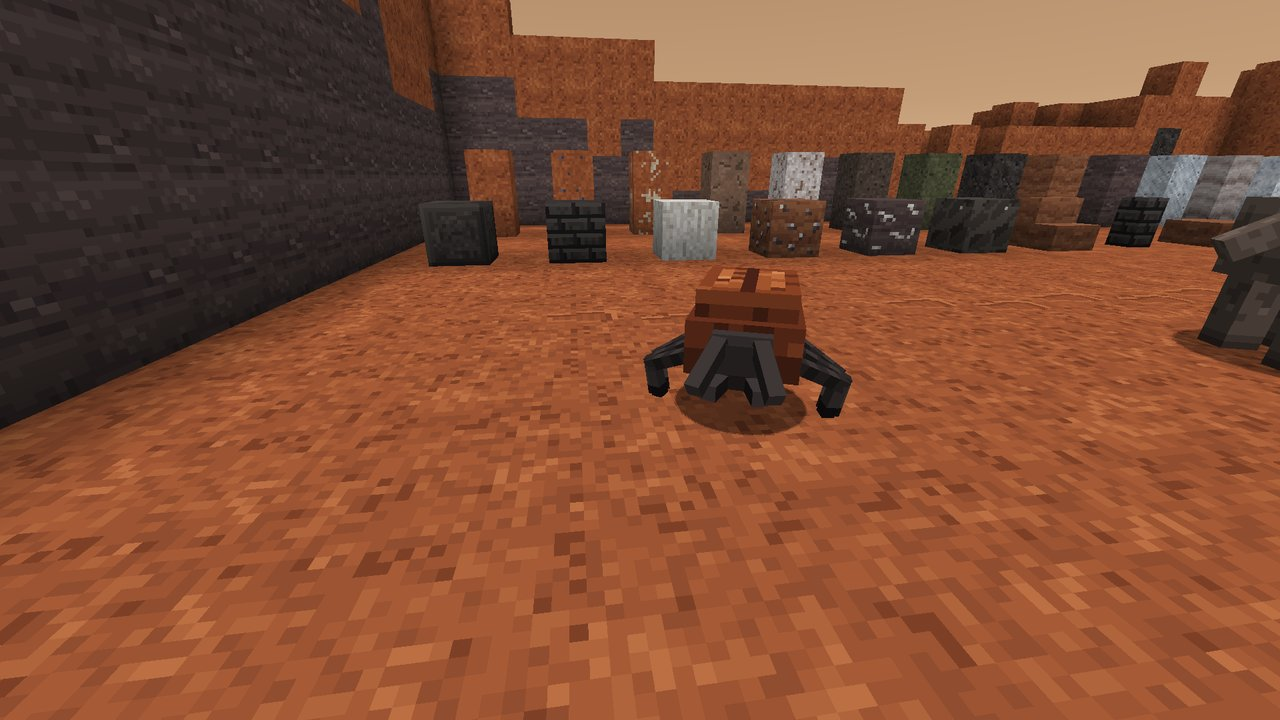
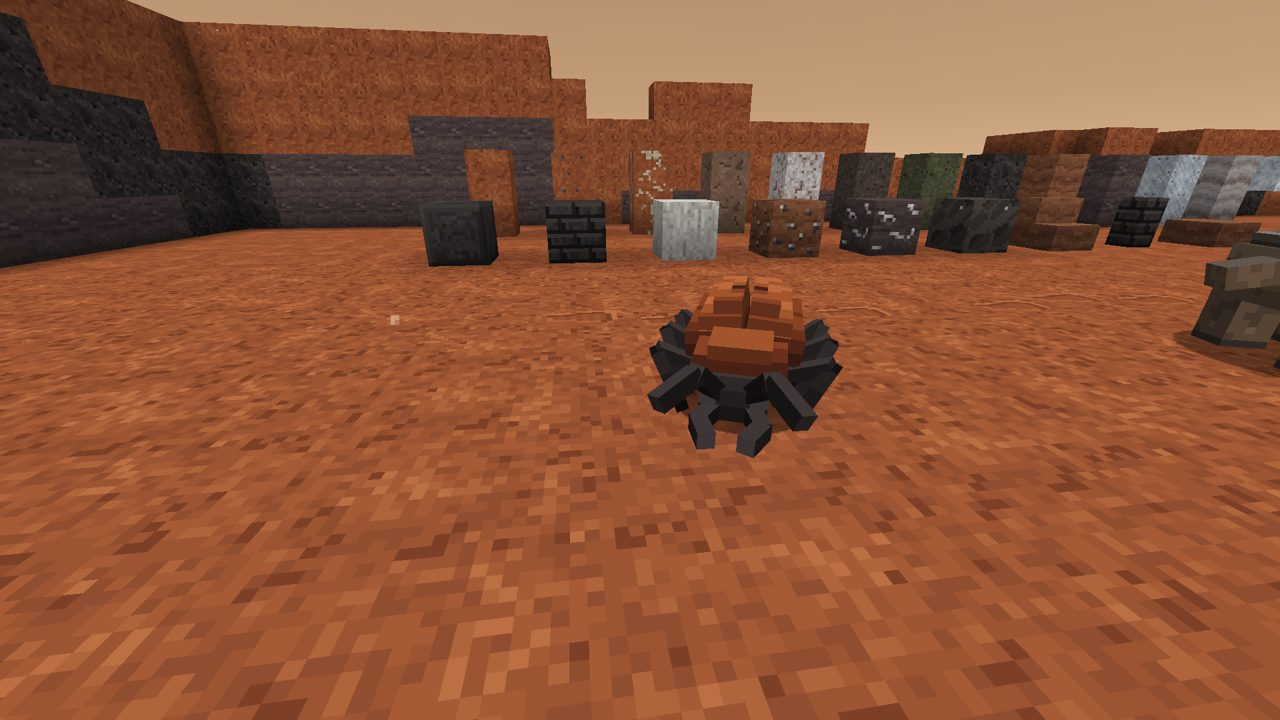
Rust Beetle: stepped domed wing cases, curved mandibles, jointed legs
Two wing cases meet along a dark seam and rise in three tiers to a narrow crown, pitted with rust and a broken metallic sheen; a lower thorax shield with its own crest; curved two-part mandibles and elbowed antennae on a small head; six legs bent high at the knee in a tripod gait. The Mars showcase stage is cleared wider to the west as well.

diff --git a/src/main/java/com/pizzaparker07/spacebreaker/client/mars/RustBeetleModel.java b/src/main/java/com/pizzaparker07/spacebreaker/client/mars/RustBeetleModel.java
@@ -12,9 +12,14 @@ import net.minecraft.client.model.geom.builders.MeshDefinition;
 import net.minecraft.client.model.geom.builders.PartDefinition;
 import net.minecraft.util.Mth;
 
-/** Rust Beetle: domed wing cases over a squat body, a small head with mandibles, six splayed legs. UVs: mars_creatures.py. */
+/**
+ * Rust Beetle: two domed wing cases (each stepping up in three tiers from a broad lower shell to a narrow crown, a dark seam between them) over a
+ * squat chitin body, a lower thorax shield, a small head with curved two-part mandibles and elbowed antennae, six legs
+ * bent high at the knee. UVs: mars_creatures.py.
+ */
 public class RustBeetleModel extends HierarchicalModel<RustBeetle> {
     public static final ModelLayerLocation LAYER = new ModelLayerLocation(Spacebreaker.id("rust_beetle"), "main");
+    private static final float[] LEG_Z = {-3F, 0F, 3F};
     private final ModelPart root;
     private final ModelPart head;
     private final ModelPart jawL;
@@ -34,28 +39,48 @@ public class RustBeetleModel extends HierarchicalModel<RustBeetle> {
     public static LayerDefinition createLayer() {
         MeshDefinition mesh = new MeshDefinition();
         PartDefinition root = mesh.getRoot();
-        PartDefinition body = root.addOrReplaceChild("body", CubeListBuilder.create().texOffs(0, 0).addBox(-4F, -4F, -5F, 8F, 4F, 10F),
-                PartPose.offset(0F, 20F, 0.5F));
-        body.addOrReplaceChild("shell", CubeListBuilder.create().texOffs(0, 14).addBox(-3.5F, -2F, -4.5F, 7F, 2F, 9F), PartPose.offset(0F, -4F, 0.5F));
-        PartDefinition head = root.addOrReplaceChild("head", CubeListBuilder.create().texOffs(36, 0).addBox(-2F, -1.5F, -3F, 4F, 3F, 3F),
-                PartPose.offset(0F, 18F, -4.5F));
-        head.addOrReplaceChild("antenna_left", CubeListBuilder.create().texOffs(44, 8).addBox(-0.5F, -0.5F, -4F, 1F, 1F, 4F),
-                PartPose.offsetAndRotation(1.2F, -1.5F, -2.5F, 0.55F, -0.35F, 0F));
-        head.addOrReplaceChild("antenna_right", CubeListBuilder.create().texOffs(44, 8).mirror().addBox(-0.5F, -0.5F, -4F, 1F, 1F, 4F),
-                PartPose.offsetAndRotation(-1.2F, -1.5F, -2.5F, 0.55F, 0.35F, 0F));
-        head.addOrReplaceChild("jaw_left", CubeListBuilder.create().texOffs(36, 8).addBox(-0.5F, 0F, -2F, 1F, 1F, 2F), PartPose.offset(1F, 0.5F, -3F));
-        head.addOrReplaceChild("jaw_right", CubeListBuilder.create().texOffs(36, 8).mirror().addBox(-0.5F, 0F, -2F, 1F, 1F, 2F),
-                PartPose.offset(-1F, 0.5F, -3F));
-        float[] z = {-3F, 0F, 3F};
-        for (int i = 0; i < 3; i++) {
-            PartDefinition l = root.addOrReplaceChild("leg" + i, CubeListBuilder.create().texOffs(14, 28).addBox(0F, -0.5F, -0.5F, 5F, 1F, 1F),
-                    PartPose.offset(3.5F, 19F, z[i]));
-            l.addOrReplaceChild("foot", CubeListBuilder.create().texOffs(14, 32).addBox(-0.5F, 0F, -0.5F, 1F, 3F, 1F),
-                    PartPose.offsetAndRotation(4.6F, 0F, 0F, 0F, 0F, -0.35F));
-            PartDefinition r = root.addOrReplaceChild("leg" + (i + 3), CubeListBuilder.create().texOffs(14, 28).mirror().addBox(-5F, -0.5F, -0.5F, 5F, 1F, 1F),
-                    PartPose.offset(-3.5F, 19F, z[i]));
-            r.addOrReplaceChild("foot", CubeListBuilder.create().texOffs(14, 32).mirror().addBox(-0.5F, 0F, -0.5F, 1F, 3F, 1F),
-                    PartPose.offsetAndRotation(-4.6F, 0F, 0F, 0F, 0F, 0.35F));
+        root.addOrReplaceChild("body", CubeListBuilder.create().texOffs(0, 0).addBox(-3F, -3F, -4.5F, 6F, 3F, 9F), PartPose.offset(0F, 21F, 0.5F));
+        for (int s = 0; s < 2; s++) {
+            float side = s == 0 ? 1F : -1F;
+            CubeListBuilder b = CubeListBuilder.create().texOffs(0, 14);
+            if (s == 1) {
+                b.mirror();
+            }
+            // the crown hugs the inner edge, so the two crowns meet along the seam and the dome steps down only at the flanks
+            b.addBox(-2F, -2F, -5F, 4F, 2F, 10F).texOffs(0, 28).addBox(s == 0 ? -2F : -1F, -3F, -4.8F, 3F, 1F, 9F)
+                    .texOffs(0, 40).addBox(s == 0 ? -2F : 0F, -4F, -4.2F, 2F, 1F, 7F);
+            // the cases sit edge to edge along the back and roll a little outward
+            root.addOrReplaceChild(s == 0 ? "case_left" : "case_right", b, PartPose.offsetAndRotation(2F * side, 18.6F, 1.2F, 0.05F, 0F, 0.08F * side));
+        }
+        root.addOrReplaceChild("thorax", CubeListBuilder.create().texOffs(30, 0).addBox(-3F, -2F, -4F, 6F, 2F, 4F)
+                .texOffs(46, 20).addBox(-2F, -3F, -3.5F, 4F, 1F, 3F), PartPose.offsetAndRotation(0F, 19.2F, -3.6F, 0.12F, 0F, 0F));
+        PartDefinition head = root.addOrReplaceChild("head", CubeListBuilder.create().texOffs(30, 8).addBox(-2F, -1.5F, -3F, 4F, 2F, 3F),
+                PartPose.offset(0F, 19.8F, -7.2F));
+        for (int s = 0; s < 2; s++) {
+            float side = s == 0 ? 1F : -1F;
+            CubeListBuilder base = CubeListBuilder.create().texOffs(44, 8);
+            CubeListBuilder tip = CubeListBuilder.create().texOffs(44, 12);
+            CubeListBuilder ant = CubeListBuilder.create().texOffs(50, 8);
+            CubeListBuilder ant2 = CubeListBuilder.create().texOffs(50, 8);
+            if (s == 1) {
+                base.mirror(); tip.mirror(); ant.mirror(); ant2.mirror();
+            }
+            PartDefinition jaw = head.addOrReplaceChild(s == 0 ? "jaw_left" : "jaw_right", base.addBox(-0.5F, -0.5F, -2F, 1F, 1F, 2F),
+                    PartPose.offset(1.2F * side, 0F, -2.8F));
+            jaw.addOrReplaceChild("tip", tip.addBox(-0.5F, -0.5F, -2F, 1F, 1F, 2F), PartPose.offsetAndRotation(0F, 0F, -1.8F, 0F, 0.7F * side, 0F));
+            PartDefinition a = head.addOrReplaceChild(s == 0 ? "antenna_left" : "antenna_right", ant.addBox(-0.5F, -0.5F, -3F, 1F, 1F, 3F),
+                    PartPose.offsetAndRotation(1.1F * side, -1.2F, -2.6F, -0.7F, -0.45F * side, 0F));
+            a.addOrReplaceChild("whip", ant2.addBox(-0.5F, -0.5F, -3F, 1F, 1F, 3F), PartPose.offsetAndRotation(0F, 0F, -2.8F, 1.0F, -0.3F * side, 0F));
+            for (int i = 0; i < 3; i++) {
+                CubeListBuilder femur = CubeListBuilder.create().texOffs(28, 28);
+                CubeListBuilder tibia = CubeListBuilder.create().texOffs(28, 31);
+                if (s == 1) {
+                    femur.mirror(); tibia.mirror();
+                }
+                PartDefinition leg = root.addOrReplaceChild("leg" + (i + 3 * s), femur.addBox(s == 0 ? 0F : -4F, -0.5F, -0.5F, 4F, 1F, 1F),
+                        PartPose.offset(2.8F * side, 20F, LEG_Z[i]));
+                leg.addOrReplaceChild("tibia", tibia.addBox(-0.5F, 0F, -0.5F, 1F, 6F, 1F), PartPose.offset(4F * side, 0F, 0F));
+            }
         }
         return LayerDefinition.create(mesh, 64, 64);
     }
@@ -71,18 +96,20 @@ public class RustBeetleModel extends HierarchicalModel<RustBeetle> {
         int eat = beetle.eatingTicks();
         float chew = eat > 0 ? Mth.sin(ageInTicks * 1.4F) : Mth.sin(ageInTicks * 0.2F) * 0.3F;
         head.xRot = eat > 0 ? 0.45F + chew * 0.05F : headPitch * Mth.DEG_TO_RAD * 0.3F;
-        jawL.yRot = -0.25F - Math.abs(chew) * 0.4F;
-        jawR.yRot = 0.25F + Math.abs(chew) * 0.4F;
-        float[] spread = {-0.45F, 0F, 0.45F};
-        for (int i = 0; i < 3; i++) {
-            // alternating tripod gait
-            float phase = (i % 2 == 0 ? 0 : Mth.PI);
-            float swing = Mth.cos(limbSwing * 1.6F + phase) * 0.5F * limbSwingAmount;
-            float lift = Math.max(0, Mth.sin(limbSwing * 1.6F + phase)) * 0.35F * limbSwingAmount;
-            legs[i].yRot = spread[i] + swing;
-            legs[i].zRot = 0.5F - lift;
-            legs[i + 3].yRot = -spread[i] + swing;
-            legs[i + 3].zRot = -0.5F + lift;
+        jawL.yRot = -0.3F - Math.abs(chew) * 0.35F;
+        jawR.yRot = 0.3F + Math.abs(chew) * 0.35F;
+        for (int s = 0; s < 2; s++) {
+            float side = s == 0 ? 1F : -1F;
+            for (int i = 0; i < 3; i++) {
+                // alternating tripod gait
+                float phase = (i + s) % 2 == 0 ? 0 : Mth.PI;
+                float swing = Mth.cos(limbSwing * 1.6F + phase) * 0.5F * limbSwingAmount;
+                float lift = Math.max(0, Mth.sin(limbSwing * 1.6F + phase)) * 0.35F * limbSwingAmount;
+                ModelPart leg = legs[i + 3 * s];
+                leg.yRot = -(i - 1) * 0.45F * side + swing;
+                leg.zRot = (-0.5F - lift) * side;
+                leg.getChild("tibia").zRot = (0.85F + lift) * side;
+            }
         }
     }
 }

diff --git a/tools/textures/modules/mars_creatures.py b/tools/textures/modules/mars_creatures.py
@@ -22,36 +22,61 @@ DUST = ramp('#6b4630', '#8a5c3e', '#a8744e', '#c08c62', '#d4a57c')
 
 
 def beetle():
-    """Rust Beetle: domed rust-red wing cases with darker pits and a pale sheen, black chitin head and legs."""
+    """Rust Beetle: two domed rust-red wing cases with pitted rust spots, a long metallic sheen down each crown and a
+    dark seam between them, a darker thorax shield, black chitin body, head, mandibles and legs."""
     cv = Canvas(64, 64)
     n = clustered(64, 64, 41, passes=1)
     rng = random.Random(42)
-    spots = {(rng.randrange(1, 7), rng.randrange(1, 9)) for _ in range(6)}
+    pits = {(rng.randrange(0, 40), rng.randrange(0, 40)) for _ in range(60)}
 
-    def shell(face, x, y, fw, fh):
+    def pitted(t, x, y, ox, oy):
+        if (x + ox, y + oy) in pits:
+            return BEETLE[1]
+        return noise_pick(BEETLE, t, n, x + ox, y + oy)
+
+    def lower(face, x, y, fw, fh):
+        # the broad lower shell of one case: a lit outer flank, the dark seam on its inner (left-hand UV) side
         if face == 'top':
-            if x in (3,):  # the seam between the wing cases
-                return BEETLE[1]
-            if (x, y) in spots:
-                return BEETLE[2]
-            t = 5 if x in (1, 5) and 1 <= y <= 6 else 4  # long highlight on each dome
-            if y == 0 or y == fh - 1 or x == 0 or x == fw - 1:
-                t = 3
-            return noise_pick(BEETLE, t, n, x, y)
+            return BEETLE[1] if x == 0 else pitted(4 if x < fw - 1 else 3, x, y, 3, 1)
         if face == 'bottom':
             return CHITIN[1]
-        return noise_pick(BEETLE, 3 if y == 0 else 2, n, x + 30, y)
+        if face in ('right', 'left'):
+            return pitted(3 if y == 0 else 2, x, y, 11, 7)
+        return BEETLE[2] if y == 0 else BEETLE[1]
 
-    paint(cv, 0, 14, 7, 2, 9, shell)
+    def crown(face, x, y, fw, fh):
+        if face == 'top':
+            if x == 1 and 0 < y < fh - 2 and n[y * 3 % 64][7] > 0.35:
+                return BEETLE[5]  # a broken metallic sheen down the crown
+            if y == fh - 1:
+                return BEETLE[3]  # the crown rounds off toward the tail
+            return pitted(4, x, y, 21, 3)
+        if face == 'bottom':
+            return BEETLE[2]
+        return BEETLE[4] if face in ('right', 'left') else BEETLE[3]
+
+    paint(cv, 0, 14, 4, 2, 10, lower)
+    paint(cv, 0, 28, 3, 1, 9, crown)
+    paint(cv, 0, 40, 2, 1, 7, crown)
 
     def body(face, x, y, fw, fh):
         if face == 'bottom':
             return CHITIN[1] if (y % 3) else CHITIN[2]
-        if face == 'top':
-            return BEETLE[2]
-        return noise_pick(BEETLE, 2 if y < 2 else 1, n, x + 11, y + 20)
+        return noise_pick(CHITIN, 2, n, x + 11, y + 20)
 
-    paint(cv, 0, 0, 8, 4, 10, body)
+    paint(cv, 0, 0, 6, 3, 9, body)
+
+    def thorax(face, x, y, fw, fh):
+        if face == 'top':
+            if y == fh - 1:
+                return BEETLE[1]  # the rim where it meets the wing cases
+            return BEETLE[4] if (x in (1, fw - 2) and y == 1) else pitted(3, x, y, 30, 20)
+        if face == 'bottom':
+            return CHITIN[1]
+        return BEETLE[2] if y == 0 else BEETLE[1]
+
+    paint(cv, 30, 0, 6, 2, 4, thorax)
+    paint(cv, 46, 20, 4, 1, 3, lambda f, x, y, fw, fh: pitted(4 if f == 'top' else 3, x, y, 33, 25))
 
     def head(face, x, y, fw, fh):
         if face == 'front':
@@ -62,18 +87,12 @@ def beetle():
             return CHITIN[3] if y == 0 else CHITIN[2]
         return CHITIN[1]
 
-    paint(cv, 36, 0, 4, 3, 3, head)
-    paint(cv, 36, 8, 1, 1, 2, lambda f, x, y, fw, fh: CHITIN[3] if f in ('top', 'front') else CHITIN[1])
-
-    def leg(face, x, y, fw, fh):
-        if face == 'top':
-            return CHITIN[3] if x in (1, 3) else CHITIN[2]
-        return CHITIN[1] if x in (1, 3) else CHITIN[2]
-
-    paint(cv, 0, 28, 1, 1, 5, leg)
-    paint(cv, 14, 28, 5, 1, 1, leg)
-    paint(cv, 14, 32, 1, 3, 1, lambda f, x, y, fw, fh: CHITIN[0] if y == fh - 1 else (CHITIN[3] if f == 'front' else CHITIN[2]))
-    paint(cv, 44, 8, 1, 1, 4, lambda f, x, y, fw, fh: CHITIN[4] if f == 'front' else (CHITIN[3] if f == 'top' and x == 0 else CHITIN[2]))
+    paint(cv, 30, 8, 4, 2, 3, head)
+    paint(cv, 44, 8, 1, 1, 2, lambda f, x, y, fw, fh: CHITIN[3] if f == 'top' else CHITIN[1])
+    paint(cv, 44, 12, 1, 1, 2, lambda f, x, y, fw, fh: CHITIN[4] if f == 'front' else (CHITIN[3] if f == 'top' else CHITIN[2]))
+    paint(cv, 50, 8, 1, 1, 3, lambda f, x, y, fw, fh: CHITIN[3] if f in ('top', 'front') else CHITIN[1])
+    paint(cv, 28, 28, 4, 1, 1, lambda f, x, y, fw, fh: CHITIN[3] if f == 'top' else CHITIN[2])
+    paint(cv, 28, 31, 1, 6, 1, lambda f, x, y, fw, fh: CHITIN[0] if y == fh - 1 else (CHITIN[3] if f == 'front' and y < 2 else CHITIN[2]))
     return cv
 
 

diff --git a/src/testmod/java/com/pizzaparker07/spacebreaker/testmod/showcase/MarsScenario.java b/src/testmod/java/com/pizzaparker07/spacebreaker/testmod/showcase/MarsScenario.java
@@ -195,7 +195,7 @@ final class MarsScenario implements ShowcaseScenario {
 
     private void buildStage(ServerLevel level) {
         int y0 = (int) Math.floor(terrain.height(STAGE_X, STAGE_Z));
-        for (int x = STAGE_X - 13; x <= STAGE_X + 19; x++) {
+        for (int x = STAGE_X - 19; x <= STAGE_X + 19; x++) {
             for (int z = STAGE_Z - 6; z <= STAGE_Z + 16; z++) {
                 for (int y = y0 - 3; y <= y0 + 20; y++) {
                     BlockState s = y < y0 ? MarsModule.MARTIAN_SANDSTONE.base().get().defaultBlockState()

diff --git a/docs/CONTENT.md b/docs/CONTENT.md
@@ -390,7 +390,7 @@ Her içerik paketi gerçek istemcide vitrin dünyasında fotoğraflanır; onayda
 | Gök cismi | Yaratıklar |
 |---|---|
 | Ay 🎨 | Regolit Kenesi (tozun altına saklanır, düşük yerçekiminde sıçrar), Yaşlı Regolit Kenesi (lav tüpü muhafızı), Toz Yüzücüsü (regolitin hemen altında süzülen pasif canlı, arkasında toz dalgaları), Keşif Dronu (karakol muhafızı, sersemletme atışı), Parıltı Böceği (pasif, ışıyan; fırçayla Parıltı Kabuğu verir → elektriksiz Parıltı Lambası, Ay gecesi için), Isı Emici (yalnız Ay gecesinde çıkar, lamba ışığında doğmaz; dokunuşu dondurur, akü ve jeneratörlerden enerji emip parlar, gün doğunca süblimleşir; ölünce emdiği enerji kızıltaşa döner) |
-| Mars 🎨 | Pas Böceği (demir oksit yer, tarafsız), Toz Şeytanı (fırtınalarda canlı hortum: dibi dar ve yoğun, tepesi geniş ve seyrek, her biri kendi hızında dönen içi boş sekizgen toz perdeleri; alt yarıda yoğun çekirdek, yerde sürünen toz eteği, tabanda savrulan çakıllar), Kanyon Pusucusu (kanyon duvarı gibi pas, devetüyü ve koyu damarlarla katmanlanmış basamaklı kabuk, tepede kaya yumruları; iki çeneli kısa baş ve kehribar gözler; eklemli kollarda iki parmaklı kıskaçlar; dizden yükseğe kıvrılan altı bacak; kapanınca bir kaya topağı), Taş Otlayan (alçak, zırhlı pasif otlayıcı: omuzlarda geniş, arkaya daralan gövde; böğürlerden taşan, kuyruğa doğru küçülen pas lekeli kaya plakaları; kısa boyun üstünde aşağı eğik kama baş ve kayadan kabuk kazıyan geniş yassı çene; yandan görünen altı kısa kalın bacak), Kutup Kurtçuğu (berrak buz halkalar zinciri: her halka koyu arduvaz bir çekirdeği saran yarı saydam bir kabuk, kafanın arkasında en geniş, kuyrukta buzlu bir kristalle incelir; böğürlerde küçük buz yumruları; kırağı beyazı küt baş, koyu turuncu yutağı çevreleyen altı buz dişli yuvarlak ağız) |
+| Mars 🎨 | Pas Böceği (demir oksit yer, tarafsız; aralarında koyu bir dikiş olan, geniş alt kabuktan dar tepeye üç basamakta yükselen iki kubbe kanat kabuğu, pas çukurcukları ve tepede kesik metalik parıltı; koyu göğüs kalkanı, kıvrık iki parçalı çeneler, dirsekli antenler, dizden yükseğe kıvrılan altı bacak), Toz Şeytanı (fırtınalarda canlı hortum: dibi dar ve yoğun, tepesi geniş ve seyrek, her biri kendi hızında dönen içi boş sekizgen toz perdeleri; alt yarıda yoğun çekirdek, yerde sürünen toz eteği, tabanda savrulan çakıllar), Kanyon Pusucusu (kanyon duvarı gibi pas, devetüyü ve koyu damarlarla katmanlanmış basamaklı kabuk, tepede kaya yumruları; iki çeneli kısa baş ve kehribar gözler; eklemli kollarda iki parmaklı kıskaçlar; dizden yükseğe kıvrılan altı bacak; kapanınca bir kaya topağı), Taş Otlayan (alçak, zırhlı pasif otlayıcı: omuzlarda geniş, arkaya daralan gövde; böğürlerden taşan, kuyruğa doğru küçülen pas lekeli kaya plakaları; kısa boyun üstünde aşağı eğik kama baş ve kayadan kabuk kazıyan geniş yassı çene; yandan görünen altı kısa kalın bacak), Kutup Kurtçuğu (berrak buz halkalar zinciri: her halka koyu arduvaz bir çekirdeği saran yarı saydam bir kabuk, kafanın arkasında en geniş, kuyrukta buzlu bir kristalle incelir; böğürlerde küçük buz yumruları; kırağı beyazı küt baş, koyu turuncu yutağı çevreleyen altı buz dişli yuvarlak ağız) |
 | Venüs (bulutlar) 🎨 | Asit Vatozu (süzülen, tarafsız; kükürt ve deri bırakır), Bulut Medüzü (pasif; basamaklı yarı saydam kubbe çan, fırfırlı etek, içinde ışıyan sıcak çekirdek, iki fırfırlı ağız kolu ve farklı uzunlukta, iki eklemli sekiz dokunaç; Kaldırma Gazı Kesesi bırakır: kullanınca 30 sn yavaş düşüş) |
 | Merkür 🎨 | Alacakaranlık Sürüngeni (tehlikeli; grafit bırakır; gece-gündüz sınırında yaşar; güneş yükselince ya da gece çökünce toprağa gömülür), Oyuk Salyangozu (pasif, faydalı: oyuk tortusunu kazıyıp kükürt bırakır, kükürtle çoğalır) |
 | Io 🎨 | Kükürt Yengeci (ısıya dayanıklı, yakınına gelene saldırır) |
